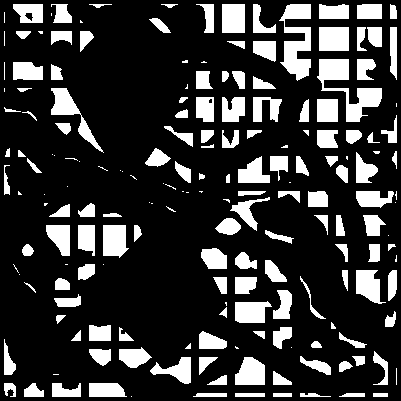
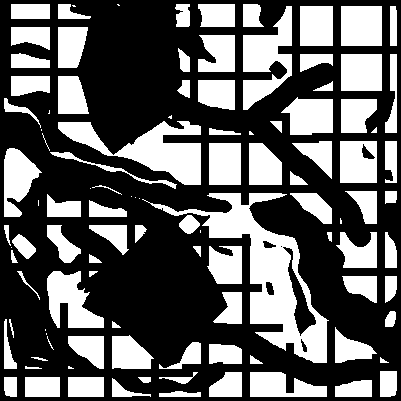
Add highway into moutain house mask

diff --git a/world_maker/world_maker.py b/world_maker/world_maker.py
@@ -48,6 +48,8 @@ def world_maker():
     skeleton_mountain = skeleton_mountain_map(image_mountain_map)
     subtract_map('./world_maker/data/mountain_map.png',
                  './world_maker/data/skeleton_mountain_area.png').save('./world_maker/data/mountain_map.png')
+    subtract_map('./world_maker/data/mountain_map.png',
+                 './world_maker/data/skeleton_highway_area.png').save('./world_maker/data/mountain_map.png')
     subtract_map(smooth_sobel_water_map, filter_negative(
         './world_maker/data/mountain_map.png')).save('./world_maker/data/mountain_map.png')
     rectangle_mountain = generate_building(
